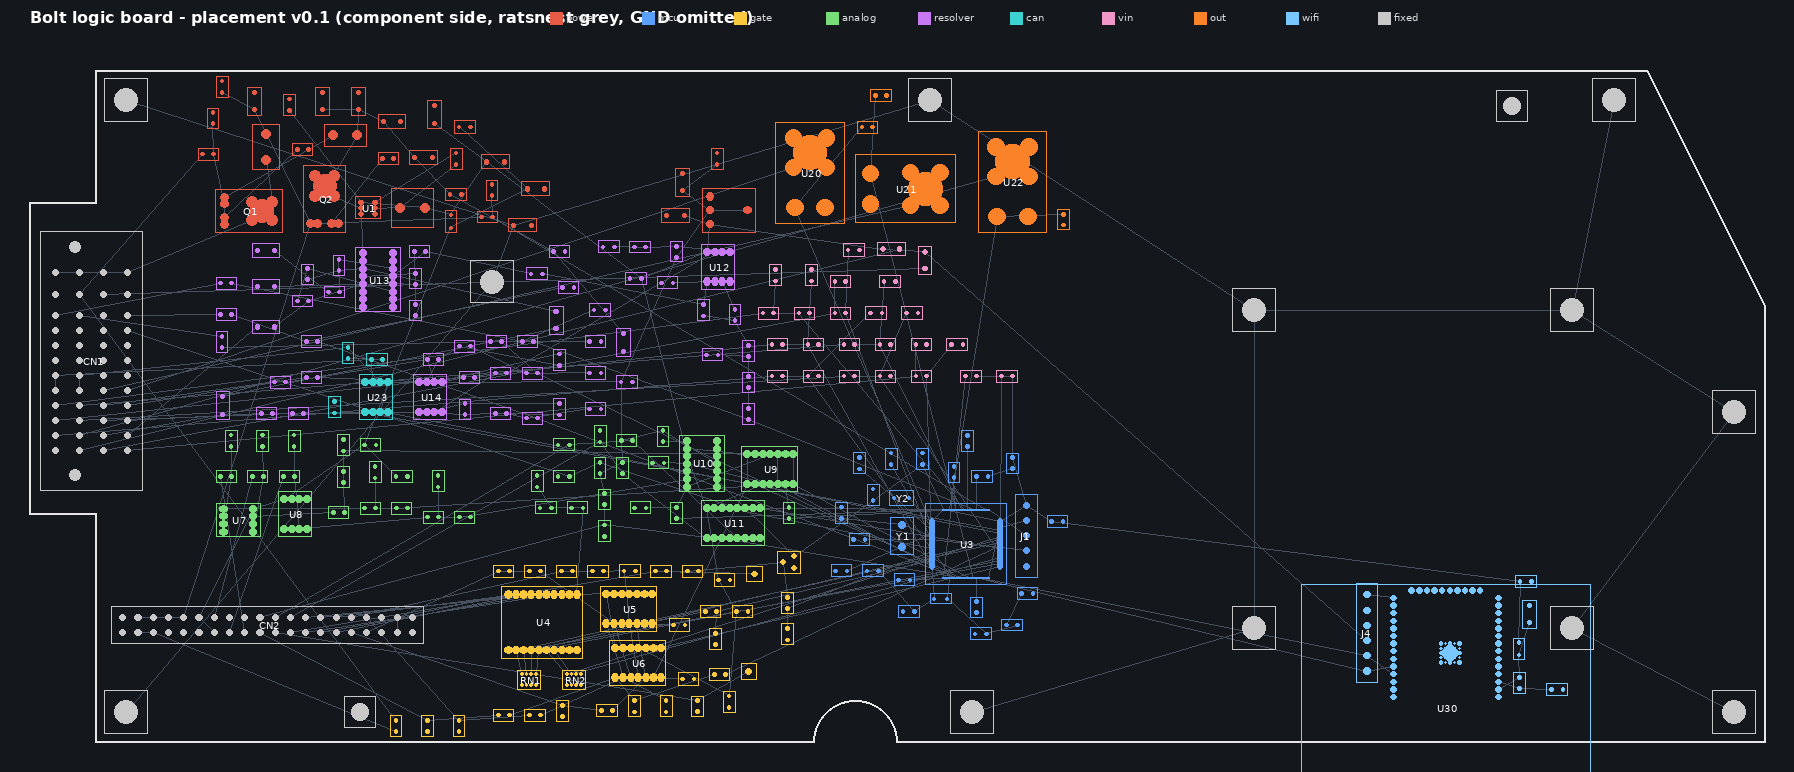
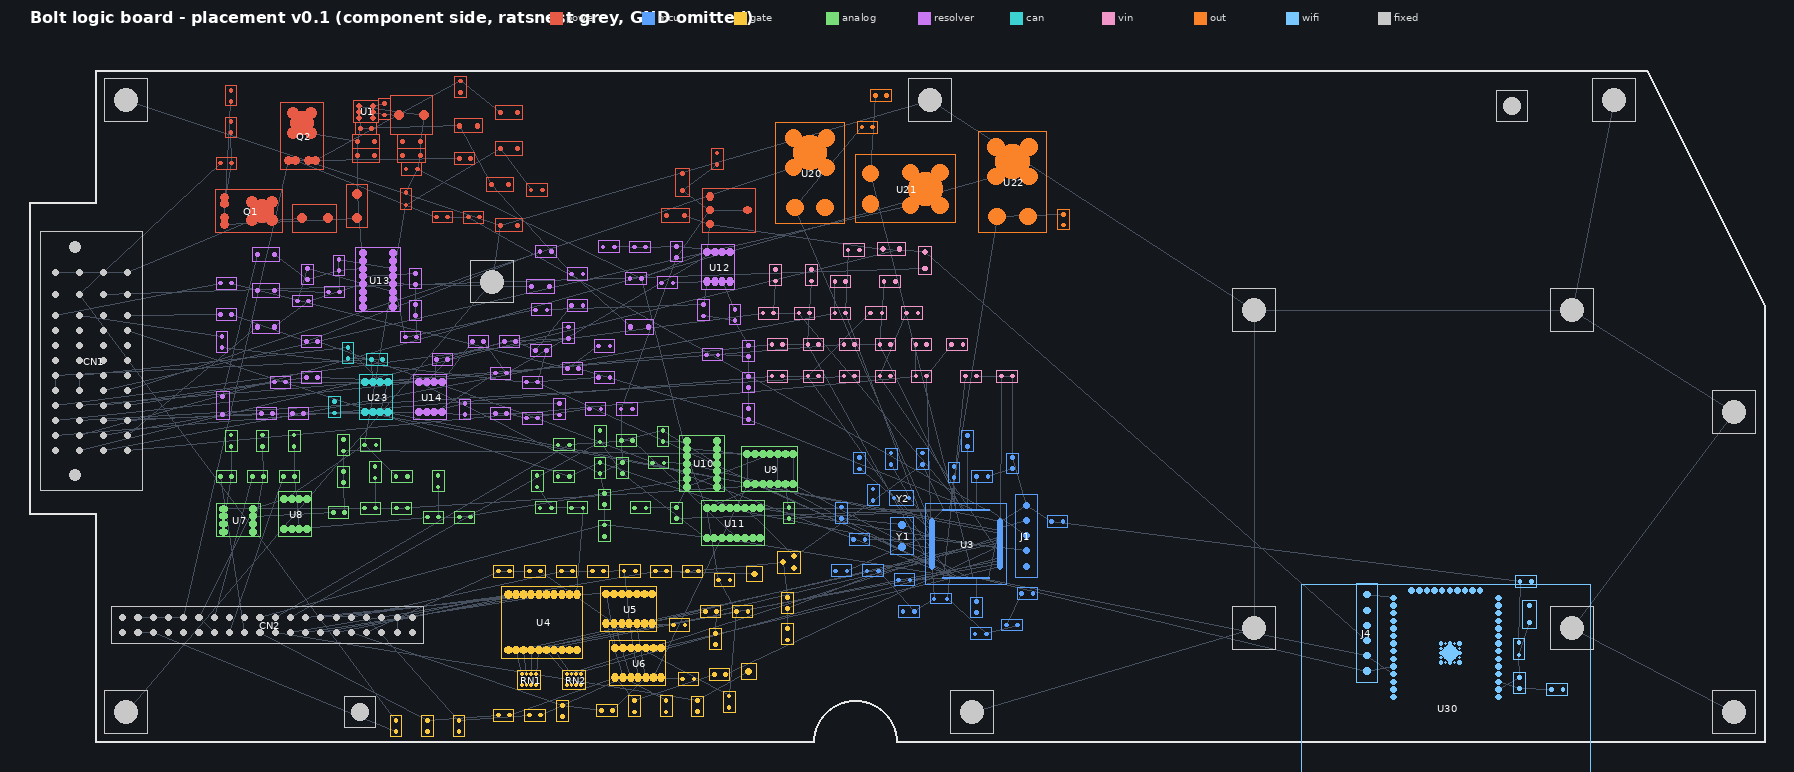
Lay out the 5 V buck as a fixed, hand-designed block
U1 (AP63205) and its parts are placed at fixed offsets from U1 (tools/buck_block.py),
following the datasheet layout guidance: input caps stacked under the VIN/GND pins,
bootstrap cap beside BST/SW, a short wide SW strip to L1, output caps under L1 with
their ground tied to the input-cap ground, FB sensed on B.Cu under the In1 plane.

gen_layout.py places the block before the placer and moves its silkscreen labels to
its outside edge. gen_route.py draws the block copper as locked tracks/vias before
pre-routing; prestub treats existing copper as obstacles and skips block-internal
pairs, and the GND fan-out leaves the block's pads alone. No values changed.

The routed board follows in the next commit, once the routing run completes.

Claude-Session: https://claude.ai/code/session_01KW1M8KfVLc83FDDiK2YEWM

Changed region(s): [[0.0936, 0.1244, 0.3746, 0.5285], [0.1249, 0.3109, 0.1873, 0.4041], [0.1249, 0.4352, 0.1561, 0.4663]]

diff --git a/hardware/bolt_logic/tools/gen_route.py b/hardware/bolt_logic/tools/gen_route.py
@@ -19,6 +19,7 @@ HERE = os.path.dirname(os.path.abspath(__file__))
 PROJ = os.path.dirname(HERE)
 sys.path.insert(0, HERE)
 from gen_mech import P, BODY, TAB, NOTCH, CHAMFER  # noqa: E402
+import buck_block  # noqa: E402
 
 PCB = os.path.join(PROJ, "bolt_logic.kicad_pcb")
 WORK = os.path.join(PROJ, "route_work")
@@ -292,6 +293,8 @@ def stitch(board, grid=7.0, lock=False):
     stubbed = {(t.GetStart().x, t.GetStart().y) for t in board.GetTracks()
                if t.GetClass() == "PCB_TRACK" and t.GetNetname() == "GND"}
     for fp in board.GetFootprints():
+        if fp.GetReference() in buck_block.REFS:      # buck block GND is drawn with its own vias
+            continue
         for p in fp.Pads():
             if p.GetNetname() != "GND" or p.GetAttribute() != pcbnew.PAD_ATTRIB_SMD:
                 continue
@@ -827,12 +830,36 @@ def finish(board):
     print("pour islands given a via: %d" % n)
 
 
+def block_copper(board):
+    """Draw the hand-designed 5 V buck copper (tools/buck_block.py) relative to U1 and lock it,
+    so FreeRouting and the clean-up passes treat it as fixed."""
+    u1 = board.FindFootprintByReference("U1")
+    assert round(u1.GetOrientationDegrees()) % 360 == buck_block.U1_ROT, "U1 not at its block orientation"
+    ux, uy = pcbnew.ToMM(u1.GetPosition().x), pcbnew.ToMM(u1.GetPosition().y)
+    at = lambda q: VECTOR2I(FromMM(ux + q[0]), FromMM(uy + q[1]))
+    layer = {"F.Cu": pcbnew.F_Cu, "B.Cu": pcbnew.B_Cu}
+    n = 0
+    for net, lay, w, pts in buck_block.TRACKS:
+        ni = board.FindNet(net); assert ni, net
+        for a, b in zip(pts[:-1], pts[1:]):
+            t = pcbnew.PCB_TRACK(board)
+            t.SetStart(at(a)); t.SetEnd(at(b)); t.SetWidth(FromMM(w)); t.SetLayer(layer[lay])
+            t.SetNet(ni); t.SetLocked(True); board.Add(t); n += 1
+    for net, x, y in buck_block.VIAS:
+        v = pcbnew.PCB_VIA(board)
+        v.SetPosition(at((x, y))); v.SetViaType(pcbnew.VIATYPE_THROUGH); v.SetLayerPair(pcbnew.F_Cu, pcbnew.B_Cu)
+        v.SetWidth(FromMM(VIA_D)); v.SetDrill(FromMM(VIA_DRILL)); v.SetNet(board.FindNet(net))
+        v.SetLocked(True); board.Add(v)
+    return n, len(buck_block.VIAS)
+
+
 def prestub(board):
     """Pre-route short same-net pad pairs (adjacent connector pins, decoupling caps, IC pin ties) as
     locked straight or L-shaped tracks. FreeRouting tends to box these pins in and give up on them."""
-    from shapely.geometry import LineString, box
+    from shapely.geometry import LineString, Point, box
     mm = pcbnew.ToMM
     widths = net_widths(board)
+    block = set(buck_block.REFS)
     pads = []
     for fp in board.GetFootprints():
         for p in fp.Pads():
@@ -841,6 +868,13 @@ def prestub(board):
                 pads.append((p, (mm(p.GetPosition().x), mm(p.GetPosition().y)),
                              box(mm(bb.GetLeft()), mm(bb.GetTop()), mm(bb.GetRight()), mm(bb.GetBottom()))))
     stubs = {l: [] for l in (pcbnew.F_Cu, pcbnew.B_Cu)}          # layer -> [(net, geom)]
+    for t in board.GetTracks():                                  # copper already drawn (buck block)
+        g = Point(mm(t.GetPosition().x), mm(t.GetPosition().y)).buffer(mm(t.GetWidth()) / 2) \
+            if t.GetClass() == "PCB_VIA" else \
+            LineString([(mm(t.GetStart().x), mm(t.GetStart().y)), (mm(t.GetEnd().x), mm(t.GetEnd().y))]).buffer(mm(t.GetWidth()) / 2)
+        for l in stubs:
+            if t.GetClass() == "PCB_VIA" or t.GetLayer() == l:
+                stubs[l].append((t.GetNetname(), g))
     ko = keepouts(board)
     parent = {}
 
@@ -854,6 +888,8 @@ def prestub(board):
         if not na or na == "GND":
             continue
         for pb, cb, _ in pads[i + 1:]:
+            if pb.GetParentAsString() in block and pa.GetParentAsString() in block:
+                continue                                         # drawn by block_copper()
             if pb.GetNetname() == na and math.dist(ca, cb) <= 4.0:
                 cands.append((math.dist(ca, cb), pa, ca, pb, cb))
     cands.sort(key=lambda c: c[0])
@@ -957,6 +993,7 @@ def main():
         raise SystemExit("FreeRouting jar not found at %s (set FREEROUTING_JAR)" % JAR)
     board = pcbnew.LoadBoard(PCB)
     setup(board)
+    print("5 V buck block: %d locked track segments, %d vias" % block_copper(board))
     print("pre-routed %d short pad-to-pad connections" % prestub(board))
     print("GND fan-out: %d pad vias" % stitch(board, grid=None, lock=True)[0])
     pcbnew.SaveBoard(BASE, board)

diff --git a/hardware/bolt_logic/tools/buck_block.py b/hardware/bolt_logic/tools/buck_block.py
@@ -1,0 +1,84 @@
+"""Hand-designed layout block for the 5 V buck (U1 AP63205WU and its parts).
+
+The autoplacer/autorouter only know connectivity; a switching regulator's layout is part of
+the circuit. This block fixes the placement and draws the critical copper itself, before the
+autorouter runs, which then routes only the block's external connections (VCC_12V in,
++5V out).
+
+Coordinates are in U1's local frame in mm (U1 at orientation 0, KiCad axes: x right, y DOWN).
+TSOT-23-6 pins: 1 FB (-1.14,-0.95)  2 EN (-1.14,0)  3 VIN (-1.14,0.95)
+                6 BST (1.14,-0.95)  5 SW (1.14,0)   4 GND (1.14,0.95)
+
+Layout (AP63205 datasheet: VIN caps as close to the device as possible, GND vias at the
+input/output cap grounds, ground copper under the device):
+- Input loop: C5 (100 nF) then C1, C2 (10 uF) stacked straight under the VIN/GND pin pair,
+  VIN pad left, GND pad right, joined by short wide VIN and GND buses.
+- Bootstrap: C6 upright next to the BST/SW pins.
+- SW node: one short 1.5 mm strip from SW to L1 (about 4 mm long).
+- Output: C7, C8 (22 uF), C9 (100 nF) under L1; their GND ties straight to the input-cap GND.
+- FB (fixed 5 V part, pin 1 = output sense): via next to pin 1, B.Cu to the output caps; the
+  In1 GND plane sits between it and the SW node.
+"""
+
+# Design-frame position of U1 (see gen_mech.py: origin H1, +y up) and its orientation.
+U1_AT = (40.0, 100.0)
+U1_ROT = 0
+
+# ref: (dx, dy, direction of pad 1 from the part centre: "left", "right", "up", "down")
+PARTS = {
+    "C5": (0.0, 2.75, "left"),    # 100 nF, VIN | GND
+    "C1": (0.0, 4.90, "left"),    # 10 uF,  VIN | GND
+    "C2": (0.0, 7.25, "left"),    # 10 uF,  VIN | GND
+    "C6": (3.10, -0.475, "up"),   # bootstrap: pad 1 = BST (up), pad 2 = SW
+    "L1": (7.60, 0.50, "left"),   # pad 1 = SW (left), pad 2 = +5V
+    "C7": (7.60, 4.95, "right"),  # 22 uF,  +5V (right) | GND
+    "C8": (7.60, 7.30, "right"),  # 22 uF
+    "C9": (7.60, 9.50, "right"),  # 100 nF
+}
+
+# (net, layer, width, [points...]) in U1-local mm
+TRACKS = [
+    # VIN: EN tied to VIN, then the VIN bus down through the input caps
+    ("VCC_12V", "F.Cu", 0.6, [(-1.1375, 0.0), (-1.1375, 0.95)]),
+    ("VCC_12V", "F.Cu", 0.6, [(-1.1375, 0.95), (-1.2, 1.8)]),
+    ("VCC_12V", "F.Cu", 1.0, [(-1.2, 1.8), (-1.2, 7.25)]),
+    # GND bus from the GND pin down through the input caps
+    ("GND", "F.Cu", 0.6, [(1.1375, 0.95), (1.2, 1.8)]),
+    ("GND", "F.Cu", 1.0, [(1.2, 1.8), (1.2, 7.25)]),
+    # input-cap GND to output-cap GND (common return), and the output GND bus
+    ("GND", "F.Cu", 1.0, [(1.475, 4.9), (6.125, 4.9)]),
+    ("GND", "F.Cu", 1.0, [(1.475, 7.2), (6.125, 7.2)]),
+    ("GND", "F.Cu", 1.0, [(6.4, 4.9), (6.4, 9.5)]),
+    ("GND", "F.Cu", 1.0, [(3.8, 4.9), (3.8, 7.2)]),
+    ("GND", "F.Cu", 0.8, [(1.2, 2.75), (2.4, 2.75)]),
+    # bootstrap
+    ("BST_5V", "F.Cu", 0.4, [(1.1375, -0.95), (2.0, -1.425), (3.1, -1.425)]),
+    # SW node: narrow out of the pin, then one wide strip into L1 pad 1 (passes C6 pad 2)
+    ("SW_5V", "F.Cu", 0.6, [(1.1375, 0.0), (2.8, 0.15)]),
+    ("SW_5V", "F.Cu", 1.5, [(2.8, 0.15), (5.525, 0.15)]),
+    # +5V: L1 pad 2 down through the output caps to the FB return via
+    ("+5V", "F.Cu", 1.0, [(9.675, 0.5), (9.0, 3.4), (9.0, 10.9)]),
+    # FB sense: pin 1 -> via -> B.Cu -> via at the output caps
+    ("+5V", "F.Cu", 0.3, [(-1.1375, -0.95), (-2.2, -2.0)]),
+    ("+5V", "B.Cu", 0.4, [(-2.2, -2.0), (-2.2, 10.9), (9.0, 10.9)]),
+]
+
+# (net, x, y) through vias, U1-local mm
+VIAS = [
+    ("+5V", -2.2, -2.0),          # FB via
+    ("+5V", 9.0, 10.9),           # FB return at the output caps
+    ("GND", 2.4, 2.75),           # input-loop ground to the In1 plane
+    ("GND", 3.8, 4.9),            # GND vias between input and output caps
+    ("GND", 3.8, 7.2),
+    ("GND", 3.8, 6.05),
+]
+
+# Silkscreen reference positions (U1-local mm): the block is too dense for a label beside every
+# part, so the labels sit around its outside, level with their part.
+LABELS = {
+    "U1": (-0.6, -3.1), "C6": (3.1, -3.1), "L1": (7.6, -4.4),
+    "C5": (-4.0, 2.75), "C1": (-4.0, 4.90), "C2": (-4.0, 7.25),
+    "C7": (11.6, 4.95), "C8": (11.6, 7.30), "C9": (11.6, 9.50),
+}
+
+REFS = ["U1"] + list(PARTS)

diff --git a/hardware/bolt_logic/tools/gen_layout.py b/hardware/bolt_logic/tools/gen_layout.py
@@ -23,6 +23,7 @@ PROJ = os.path.dirname(HERE)
 sys.path.insert(0, HERE)
 import kisym  # noqa: E402
 from gen_mech import P, to_design, SHEET_ORIGIN  # noqa: E402
+import buck_block  # noqa: E402
 
 PCB = os.path.join(PROJ, "bolt_logic.kicad_pcb")
 SCH = os.path.join(PROJ, "bolt_logic.kicad_sch")
@@ -158,9 +159,8 @@ NEAR = {"C40": ("U4", "20"), "C46": ("U5", "14"), "C47": ("U6", "14"), "C54": ("
         "C60": ("U9", "3"), "C61": ("U10", "3"), "C62": ("U11", "16"), "C75": ("U12", "8"), "C79": ("U13", "4"),
         "C80": ("U13", "4"), "C84": ("U14", "8"), "C109": ("U23", "3"), "C20": ("U3", "19"), "C21": ("U3", "32"),
         "C22": ("U3", "48"), "C23": ("U3", "64"), "C24": ("U3", "1"), "C25": ("U3", "13"), "C26": ("U3", "13"),
-        "C27": ("U3", "7"), "L30": ("U30", "2"), "C120": ("U30", "2"), "C121": ("L30", "1"), "C5": ("U1", "3"), "C1": ("U1", "3"),
-        "C2": ("U1", "3"), "C9": ("U1", "1"), "C7": ("L1", "2"), "C8": ("L1", "2"), "C10": ("U2", "3"),
-        "C11": ("U2", "2"), "C6": ("U1", "5"), "C12": ("U2", "2"), "C13": ("FB1", "2"), "C14": ("FB1", "2"), "C15": ("Q2", "1"),
+        "C27": ("U3", "7"), "L30": ("U30", "2"), "C120": ("U30", "2"), "C121": ("L30", "1"), "C10": ("U2", "3"),
+        "C11": ("U2", "2"), "C12": ("U2", "2"), "C13": ("FB1", "2"), "C14": ("FB1", "2"), "C15": ("Q2", "1"),
         "C16": ("Q2", "1"), "C3": ("D1", "1"), "C4": ("D1", "1"), "C28": ("Y1", "1"), "C29": ("Y1", "2"),
         "C30": ("Y2", "1"), "C31": ("Y2", "2")}
 STEP = 0.75
@@ -237,6 +237,32 @@ def overlap(a, b, gap=None):
     return not (a[2] + gap <= b[0] or b[2] + gap <= a[0] or a[3] + gap <= b[1] or b[3] + gap <= a[1])
 
 
+def place_block(fps):
+    """Fixed 5 V buck block (tools/buck_block.py): U1 at its anchor, every other part at its
+    offset, rotated so pad 1 faces the requested side. Returns the block's placement box."""
+    u1 = fps["U1"]
+    u1.SetOrientationDegrees(buck_block.U1_ROT); u1.SetPosition(P(*buck_block.U1_AT))
+    ux, uy = pcbnew.ToMM(u1.GetPosition().x), pcbnew.ToMM(u1.GetPosition().y)
+    want = {"left": (-1, 0), "right": (1, 0), "up": (0, -1), "down": (0, 1)}
+    for ref, (dx, dy, side) in buck_block.PARTS.items():
+        fp = fps[ref]
+        pos = VECTOR2I(FromMM(ux + dx), FromMM(uy + dy))
+        for rot in (0, 90, 180, 270):
+            fp.SetOrientationDegrees(rot); fp.SetPosition(pos)
+            p1 = [p for p in fp.Pads() if p.GetNumber() == "1"][0].GetPosition()
+            vx, vy = pcbnew.ToMM(p1.x - pos.x), pcbnew.ToMM(p1.y - pos.y)
+            wx, wy = want[side]
+            if vx * wx + vy * wy > 0.5 * math.hypot(vx, vy):
+                break
+        else:
+            raise SystemExit("buck block: no rotation puts %s pad 1 %s" % (ref, side))
+    for ref, (lx, ly) in buck_block.LABELS.items():
+        t = fps[ref].Reference()
+        t.SetPosition(VECTOR2I(FromMM(ux + lx), FromMM(uy + ly))); t.SetTextAngleDegrees(0)
+    boxes = [pbox(fps[r]) for r in buck_block.REFS]
+    return (min(b[0] for b in boxes), min(b[1] for b in boxes), max(b[2] for b in boxes), max(b[3] for b in boxes))
+
+
 def place_all(board):
     fps = {fp.GetReference(): fp for fp in board.GetFootprints()}
     placed_boxes = keepouts(board)
@@ -260,6 +286,9 @@ def place_all(board):
         return (x0, y0, x1, y1), pads
 
     failures = []
+    placed_boxes.append(place_block(fps))
+    for r in buck_block.REFS:
+        record(fps[r])
     for ref, (x, y, rot) in ANCHORS.items():
         fp = fps[ref]; fp.SetOrientationDegrees(rot); fp.SetPosition(P(x, y))
         placed_boxes.append(body_box(fp) if len(fp.Zones()) else pbox(fp)); record(fp)
@@ -270,7 +299,7 @@ def place_all(board):
             placed_boxes.append((min(xa, xb), min(ya, yb), max(xa, xb), max(ya, yb)))
 
     for gname, refs, regions in GROUPS:
-        todo = [r for r in refs if r in fps and r not in ANCHORS]
+        todo = [r for r in refs if r in fps and r not in ANCHORS and r not in buck_block.REFS]
         todo.sort(key=lambda r: (-(fps[r].GetPadCount()), r in NEAR))
         for ref in todo:
             fp = fps[ref]

diff --git a/hardware/bolt_logic/tools/render_block.py b/hardware/bolt_logic/tools/render_block.py
@@ -1,0 +1,77 @@
+"""Close-up render of the 5 V buck block (F.Cu, B.Cu, vias, pads, silkscreen) for review.
+
+    python3 tools/render_block.py [board.kicad_pcb] [out.png]
+"""
+import os
+import sys
+
+import pcbnew
+
+HERE = os.path.dirname(os.path.abspath(__file__))
+PROJ = os.path.dirname(HERE)
+sys.path.insert(0, HERE)
+import buck_block  # noqa: E402
+
+
+def main():
+    from PIL import Image, ImageDraw, ImageFont
+    src = sys.argv[1] if len(sys.argv) > 1 else os.path.join(PROJ, "bolt_logic.kicad_pcb")
+    out = sys.argv[2] if len(sys.argv) > 2 else os.path.join(PROJ, "..", "..", "docs", "buck_block.png")
+    board = pcbnew.LoadBoard(src)
+    mm = pcbnew.ToMM
+    u1 = board.FindFootprintByReference("U1")
+    ux, uy = mm(u1.GetPosition().x), mm(u1.GetPosition().y)
+    x0, y0, x1, y1 = ux - 7, uy - 6, ux + 15, uy + 13          # window, board mm (y down)
+    S = 40                                                    # px per mm
+    W, H = int((x1 - x0) * S), int((y1 - y0) * S)
+    img = Image.new("RGB", (W, H + 40), (16, 20, 24))
+    d = ImageDraw.Draw(img, "RGBA")
+    tx = lambda x, y: ((x - x0) * S, (y - y0) * S + 40)
+    F = ImageFont.truetype("/usr/share/fonts/truetype/dejavu/DejaVuSans.ttf", 14)
+    FB = ImageFont.truetype("/usr/share/fonts/truetype/dejavu/DejaVuSans-Bold.ttf", 16)
+    colors = {pcbnew.B_Cu: (60, 110, 220, 170), pcbnew.F_Cu: (210, 70, 60, 200)}
+
+    for z in board.Zones():                                   # pours, faint
+        if z.GetLayer() not in colors or not z.IsFilled():
+            continue
+        poly = z.GetFilledPolysList(z.GetLayer())
+        for i in range(poly.OutlineCount()):
+            o = poly.Outline(i)
+            pts = [tx(mm(o.CPoint(k).x), mm(o.CPoint(k).y)) for k in range(o.PointCount())]
+            if len(pts) > 2:
+                r, g, b, _ = colors[z.GetLayer()]
+                d.polygon(pts, fill=(r, g, b, 45))
+    for lay in (pcbnew.B_Cu, pcbnew.F_Cu):
+        for t in board.GetTracks():
+            if t.GetClass() == "PCB_TRACK" and t.GetLayer() == lay:
+                w = mm(t.GetWidth()) * S
+                a, b = tx(mm(t.GetStart().x), mm(t.GetStart().y)), tx(mm(t.GetEnd().x), mm(t.GetEnd().y))
+                d.line([a, b], fill=colors[lay], width=max(1, int(w)))
+                for c in (a, b):
+                    d.ellipse([c[0] - w / 2, c[1] - w / 2, c[0] + w / 2, c[1] + w / 2], fill=colors[lay])
+    for fp in board.GetFootprints():
+        for p in fp.Pads():
+            bb = p.GetBoundingBox()
+            a, b = tx(mm(bb.GetLeft()), mm(bb.GetTop())), tx(mm(bb.GetRight()), mm(bb.GetBottom()))
+            col = (200, 170, 60, 230) if p.IsOnLayer(pcbnew.F_Cu) else (120, 150, 220, 160)
+            d.rectangle([a, b], fill=col)
+    for t in board.GetTracks():
+        if t.GetClass() == "PCB_VIA":
+            c = tx(mm(t.GetPosition().x), mm(t.GetPosition().y)); r = mm(t.GetWidth()) / 2 * S
+            d.ellipse([c[0] - r, c[1] - r, c[0] + r, c[1] + r], fill=(230, 230, 230))
+            r = mm(t.GetDrill()) / 2 * S
+            d.ellipse([c[0] - r, c[1] - r, c[0] + r, c[1] + r], fill=(16, 20, 24))
+    for ref in buck_block.REFS:
+        t = board.FindFootprintByReference(ref).Reference()
+        c = tx(mm(t.GetPosition().x), mm(t.GetPosition().y))
+        d.text((c[0] - 9 * len(ref) / 2, c[1] - 9), ref, fill=(255, 255, 255), font=FB)
+    for net, xy in (("SW", (3.6, 1.6)), ("VIN", (-1.7, 8.0)), ("GND", (0.7, 8.0)), ("+5V", (9.4, 11.8))):
+        c = tx(ux + xy[0], uy + xy[1]); d.text(c, net, fill=(150, 230, 150), font=F)
+    d.text((10, 10), "5 V buck block - F.Cu red, B.Cu blue, pads gold, 1 mm = %d px" % S,
+           fill=(255, 255, 255), font=FB)
+    img.save(out)
+    print("wrote", out)
+
+
+if __name__ == "__main__":
+    main()

diff --git a/docs/04-layout.md b/docs/04-layout.md
@@ -20,6 +20,9 @@ Images: `layout_placement.png` (placement plus ratsnest), `layout_routed.png` (r
   which every standard 4-layer fab process can build.
 - Vias: 0.6 mm pad, 0.3 mm drill.
 - Copper-to-edge clearance: 0.4 mm.
+- Copper weight: not fixed yet. The AP63205 datasheet suggests 2 oz copper to help the
+  regulator shed heat. 1 oz is the usual cheaper default. Which to order is a fab choice to
+  settle before ordering.
 
 Net classes are in `tools/gen_route.py`, `NETCLASSES`:
 
@@ -125,6 +128,44 @@ Placement rules (`gen_layout.py`):
 Decoupling caps are placed against the pin they serve (`NEAR` table in `gen_layout.py`).
 Two-pin parts can rotate in 90° steps so that each pad faces its own net.
 
+### 3.1 5 V buck block (U1 AP63205 and its parts)
+
+A switching regulator's layout is part of the circuit, and the general placer only
+knows connectivity: in the first pass the input caps ended up 13–16 mm from U1 and the
+switching node was 18 mm of 0.55 mm track. So the buck is now a fixed, hand-designed block
+in `tools/buck_block.py`. `gen_layout.py` places it first, and `gen_route.py` draws its
+copper as locked tracks and vias before anything else, so the autorouter only connects
+VCC_12V into it and +5V out of it.
+
+The layout follows the AP63205 datasheet's layout guidance and the AP63205 EVB:
+
+```
+           U1 label  C6 label     L1 label
+    FB via o   [U1]  [C6]   +--------------+
+               VIN|GND  \_SW__|  L1 (SW|5V)  |
+    C5 label [C5 VIN|GND]      +--------------+
+    C1 label [C1 VIN|GND]  o   [C7 GND|5V]  C7 label
+    C2 label [C2 VIN|GND]  o   [C8 GND|5V]  C8 label
+                               [C9 GND|5V]  C9 label
+                     FB return o
+```
+
+| | Block | First pass |
+|----|----|----|
+| Input loop | C5 (100 nF) pads 1.8 mm from the VIN/GND pins, then C1 and C2 (10 µF) stacked below on 1 mm VIN and GND buses | input caps 13–16 mm away |
+| Bootstrap | C6 upright beside the BST/SW pins, about 2 mm away | ~19 mm |
+| SW node | one 1.5 mm wide strip, about 4.4 mm from the SW pin to L1 pad 1 | 18 mm of 0.55 mm track |
+| Output | C7, C8 (22 µF) and C9 (100 nF) under L1 on a 1 mm +5V bus; their GND ties straight across to the input-cap GND | routed |
+| GND | four vias in the input/output cap grounds to the In1 plane, plus the F.Cu pour | fan-out vias |
+| FB | U1 pin 1 senses +5V. It drops through a via next to the pin and runs on B.Cu to the output caps, with the In1 GND plane between it and the SW node | routed |
+
+The block's silkscreen references sit around its outside, level with their parts, since
+there's no room for a label beside each part. The GND fan-out step leaves the block's GND
+pads alone, because it has its own vias.
+
+Values are unchanged. The datasheet's typical circuit uses 4.7 µH; this board keeps
+6.8 µH, which is what the AP63205 EVB uses.
+
 ## 4. Results (committed run)
 
 | | |
@@ -149,7 +190,7 @@ Two-pin parts can rotate in 90° steps so that each pad faces its own net.
 
 | # | Area | What to do |
 |----|----|----|
-| 1 | **5 V buck (U1, L1, C1/C2/C5, C6, D1)** | Re-lay it by hand to the AP63205 datasheet layout: smallest input-cap loop, SW node as a short copper area rather than a track, FB away from SW. |
+| 1 | **5 V buck (U1, L1, C1/C2/C5, C6)** | **Done:** fixed block, §3.1. Left to check: whether to order 2 oz outer copper, which the datasheet suggests for heat (§1). |
 | 2 | **Resolver exciter (U13 to CN1)** | EXC_* carries ~100 mA at 10 kHz. Keep it away from SIN/COS and run the pairs side by side. |
 | 3 | **Analog inputs (IL1, IL2, UDC, SIN/COS, temps)** | Check that no PWM or exciter track runs parallel on an adjacent layer. Add a GND guard where it does. |
 | 4 | **PWM to CN2** | Six lines: check they are short, reference the In1 plane, and don't cross a plane gap. |
